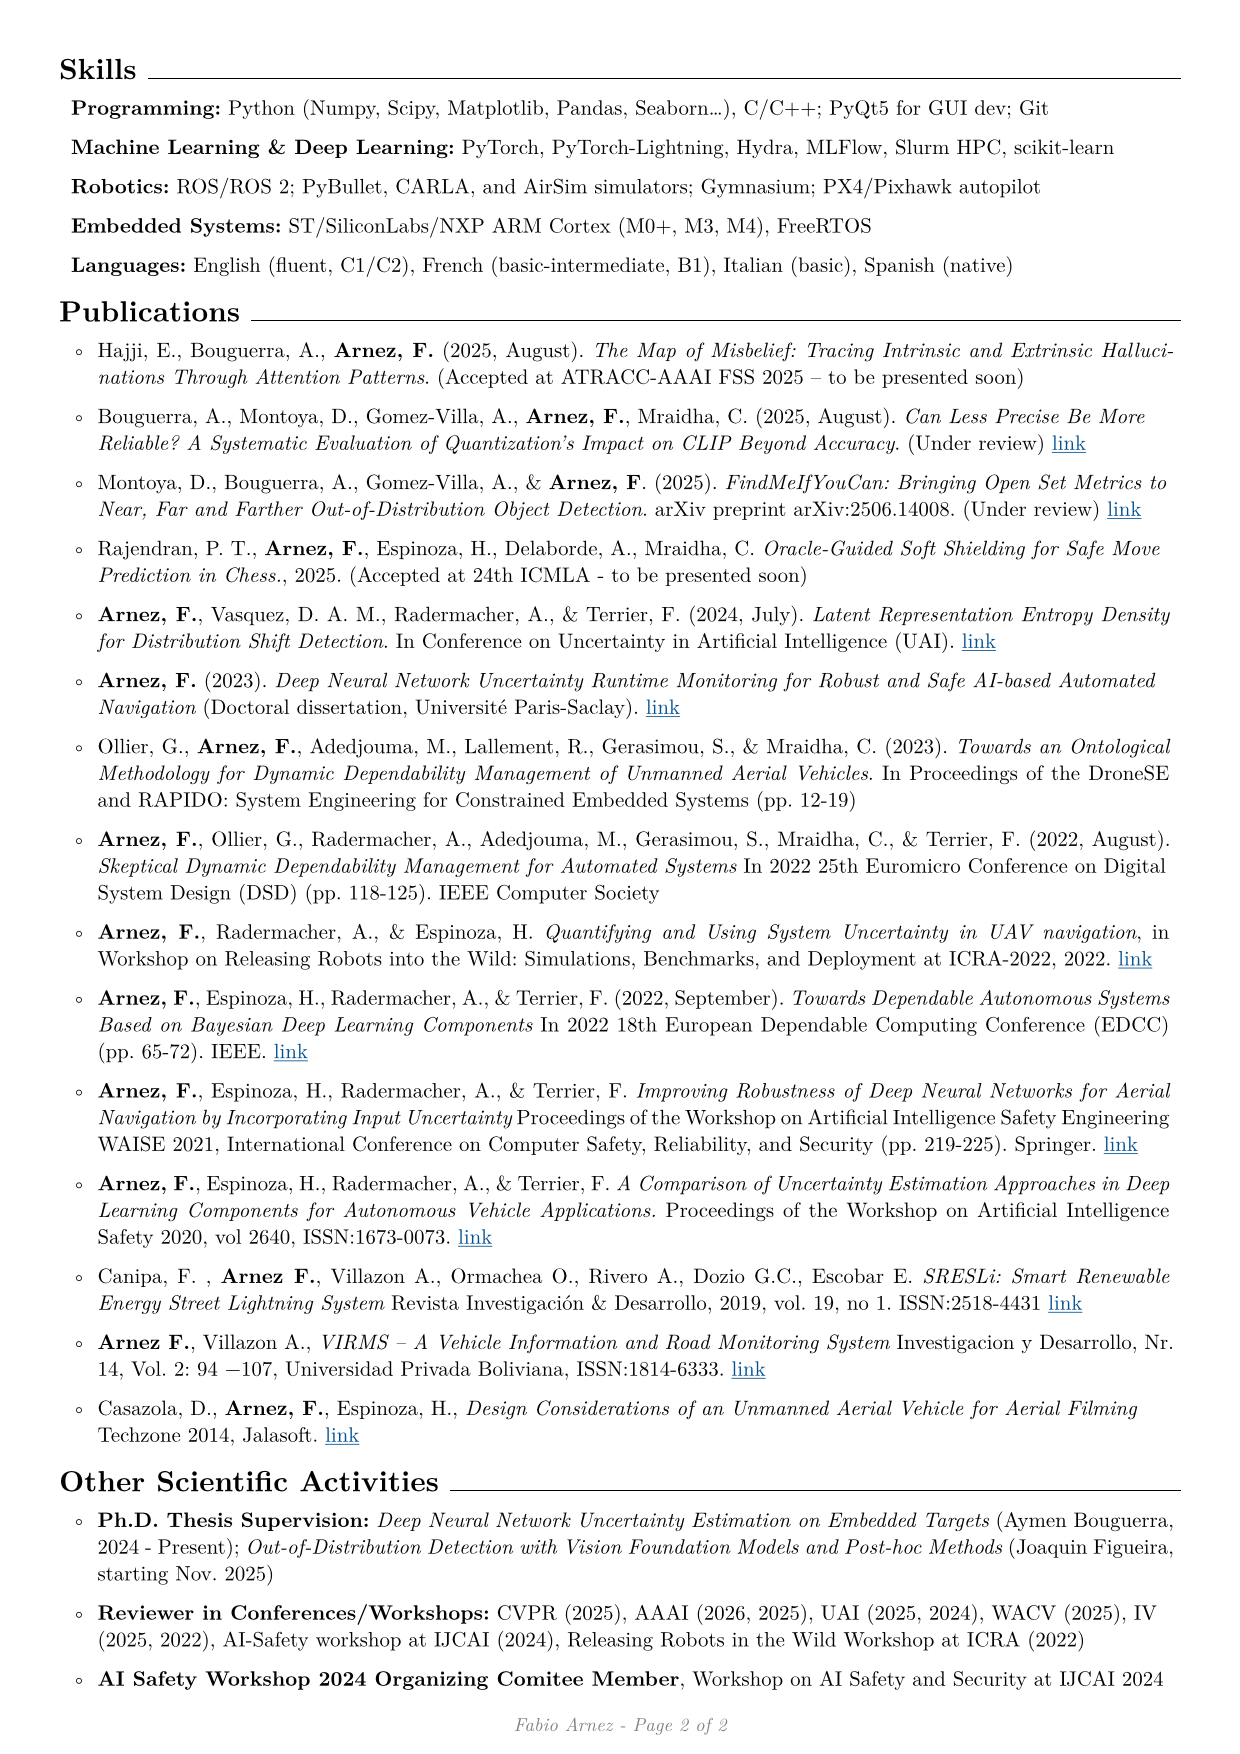
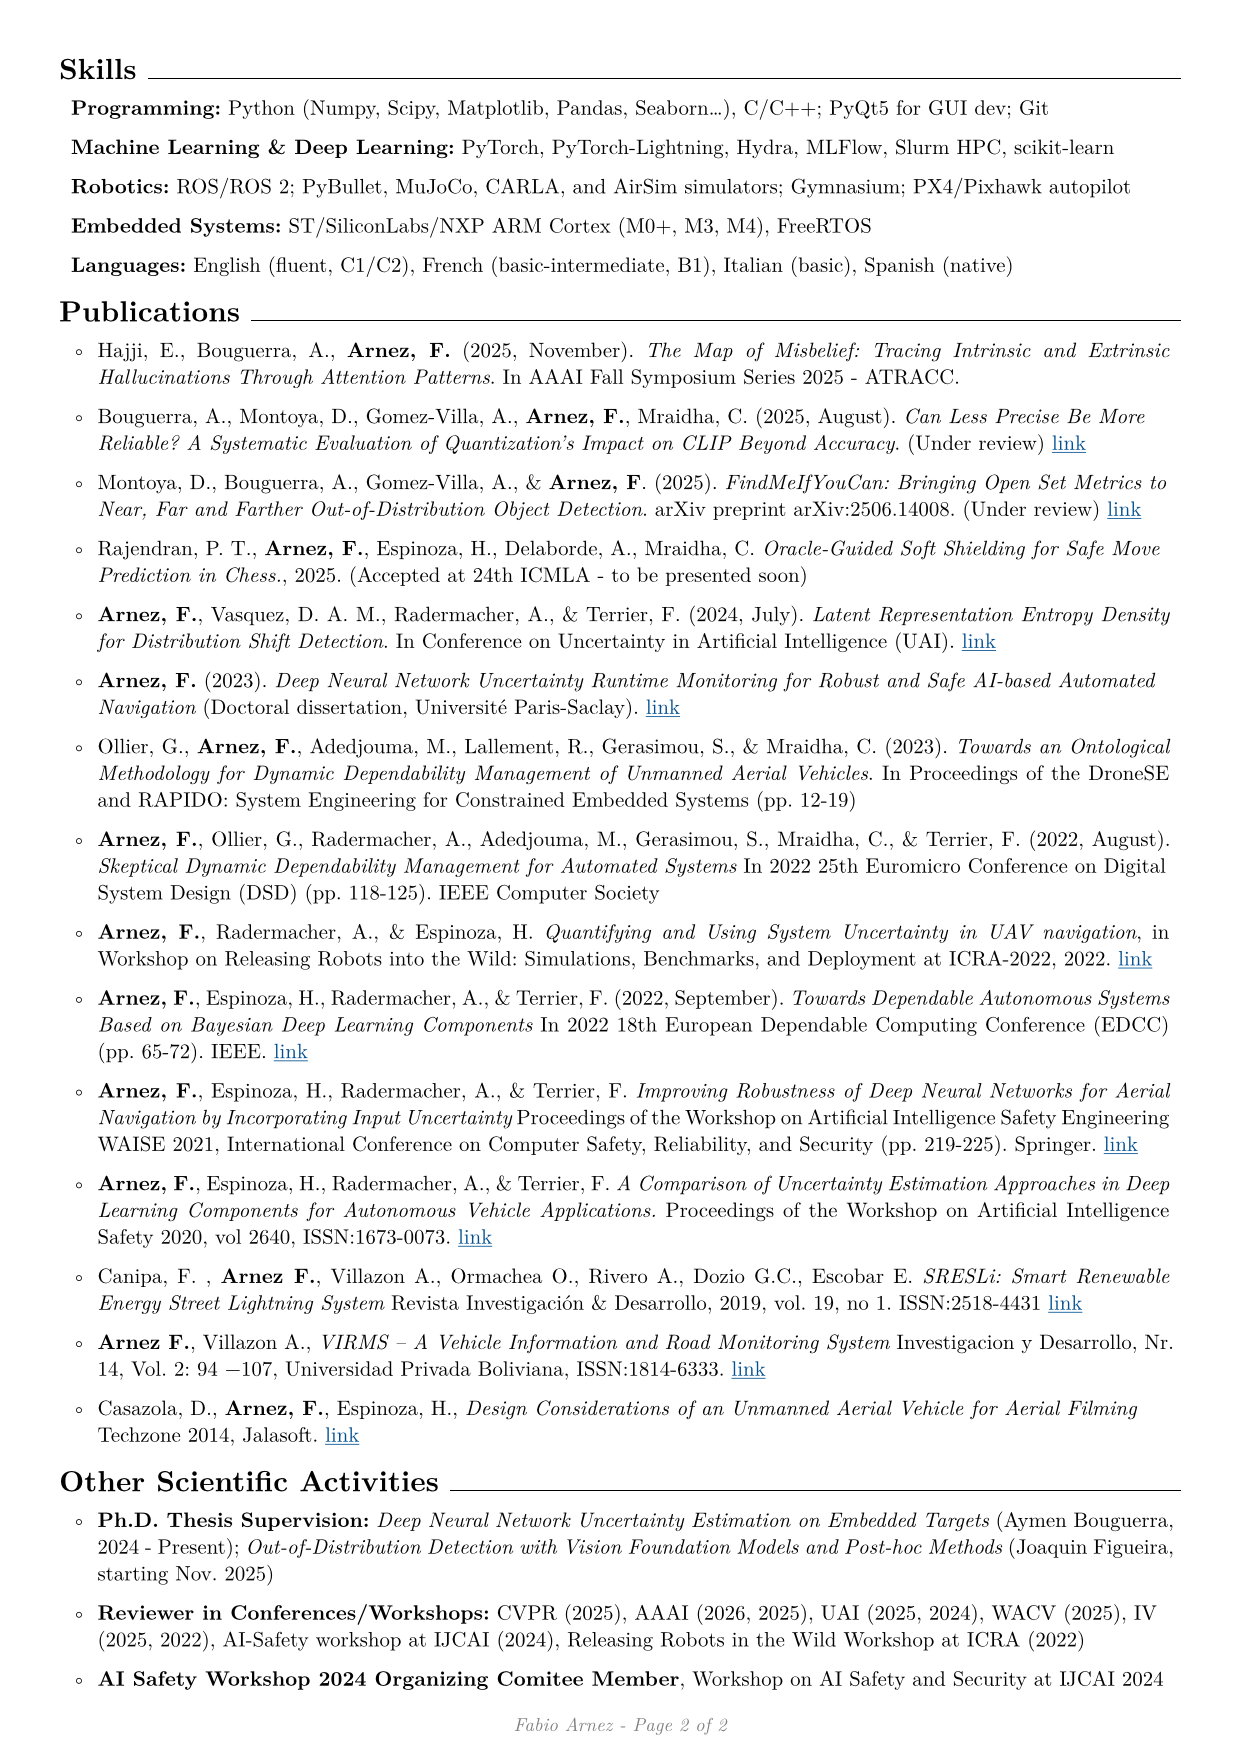
update cv 2025-11-14

Changed region(s): [[0.1226, 0.1847, 0.9194, 0.2155], [0.3065, 0.0924, 0.8274, 0.1231]]

diff --git a/rendercv_output/Fabio_Arnez_CV.html b/rendercv_output/Fabio_Arnez_CV.html
@@ -57,7 +57,7 @@
         <li>Trustworthy Deep Learning Team <strong>leader</strong>, Ph.D. Theses and Interships supervison</li>
         <li>On-going contribution to the <strong>PRIMaL</strong> (Carnot project)</li>
         <li>On-going contribution <a href="https://deepgreen.ai/"><strong>DeepGreen</strong></a> Project for embedded AI, (France 2030 program)</li>
-        <li>Contributed to the <a href="https://www.confiance.ai/"><strong>Confiance.ai</strong></a> program, (France 2030 program). OoD detection method <a href="https://catalog.confiance.ai/records/vtkgc-x6d75">library</a>.</li>
+        <li>Contributed to the <a href="https://www.confiance.ai/"><strong>Confiance.ai</strong></a> program, (France 2030 program). OoD detection method <a href="https://catalog.confiance.ai/records/vtkgc-x6d75">library</a></li>
         <li>Contributed to the <a href="https://cordis.europa.eu/article/id/444650-innovative-framework-for-cohesive-independent-and-reliable-drone-operations"><strong>Comp4Drones</strong></a> project (H2020 Program European Union). WP4-Task4.4 Runtime Monitoring leader and contributor</li>
         </ul>
         <h2>Bamboo, Data Scientist</h2>
@@ -110,13 +110,13 @@
         <ul>
         <li>Programming: Python (Numpy, Scipy, Matplotlib, Pandas, Seaborn...), C/C++; PyQt5 for GUI dev;  Git</li>
         <li>Machine Learning &amp; Deep Learning: PyTorch, PyTorch-Lightning, Hydra, MLFlow, Slurm HPC, scikit-learn</li>
-        <li>Robotics: ROS/ROS 2; PyBullet, CARLA, and AirSim simulators; Gymnasium; PX4/Pixhawk autopilot</li>
+        <li>Robotics: ROS/ROS 2; PyBullet, MuJoCo, CARLA, and AirSim simulators; Gymnasium; PX4/Pixhawk autopilot</li>
         <li>Embedded Systems: ST/SiliconLabs/NXP ARM Cortex (M0+, M3, M4), FreeRTOS</li>
         <li>Languages: English (fluent, C1/C2), French (basic-intermediate, B1), Italian (basic), Spanish (native)</li>
         </ul>
         <h1>Publications</h1>
         <ul>
-        <li>Hajji, E., Bouguerra, A., <strong>Arnez, F.</strong> (2025, August). <em>The Map of Misbelief: Tracing Intrinsic and Extrinsic Hallucinations Through Attention Patterns</em>. (Accepted at ATRACC-AAAI FSS 2025 – to be presented soon)</li>
+        <li>Hajji, E., Bouguerra, A., <strong>Arnez, F.</strong> (2025, November). <em>The Map of Misbelief: Tracing Intrinsic and Extrinsic Hallucinations Through Attention Patterns</em>. In AAAI Fall Symposium Series 2025 - ATRACC.</li>
         <li>Bouguerra, A., Montoya, D., Gomez-Villa, A., <strong>Arnez, F.</strong>, Mraidha, C. (2025, August). <em>Can Less Precise Be More Reliable? A Systematic Evaluation of Quantization’s Impact on CLIP Beyond Accuracy</em>. (Under review) <a href="https://arxiv.org/abs/2509.21173">link</a></li>
         <li>Montoya, D., Bouguerra, A., Gomez-Villa, A., &amp; <strong>Arnez, F</strong>. (2025). <em>FindMeIfYouCan: Bringing Open Set Metrics to Near, Far  and Farther Out-of-Distribution Object Detection</em>. arXiv preprint arXiv:2506.14008. (Under review) <a href="https://arxiv.org/abs/2506.14008">link</a></li>
         <li>Rajendran, P. T., <strong>Arnez, F.</strong>, Espinoza, H., Delaborde, A., Mraidha, C. <em>Oracle-Guided Soft Shielding for Safe Move Prediction in Chess.</em>, 2025. (Accepted at 24th ICMLA - to be presented soon)</li>

diff --git a/rendercv_output/Fabio_Arnez_CV.md b/rendercv_output/Fabio_Arnez_CV.md
@@ -18,7 +18,7 @@
 - Trustworthy Deep Learning Team **leader**, Ph.D. Theses and Interships supervison
 - On-going contribution to the **PRIMaL** (Carnot project)
 - On-going contribution [**DeepGreen**](https://deepgreen.ai/) Project for embedded AI, (France 2030 program)
-- Contributed to the [**Confiance.ai**](https://www.confiance.ai/) program, (France 2030 program). OoD detection method [library](https://catalog.confiance.ai/records/vtkgc-x6d75).
+- Contributed to the [**Confiance.ai**](https://www.confiance.ai/) program, (France 2030 program). OoD detection method [library](https://catalog.confiance.ai/records/vtkgc-x6d75)
 - Contributed to the [**Comp4Drones**](https://cordis.europa.eu/article/id/444650-innovative-framework-for-cohesive-independent-and-reliable-drone-operations) project (H2020 Program European Union). WP4-Task4.4 Runtime Monitoring leader and contributor
 
 ## Bamboo, Data Scientist
@@ -72,12 +72,12 @@
 
 - Programming: Python (Numpy, Scipy, Matplotlib, Pandas, Seaborn...), C/C++; PyQt5 for GUI dev;  Git
 - Machine Learning & Deep Learning: PyTorch, PyTorch-Lightning, Hydra, MLFlow, Slurm HPC, scikit-learn
-- Robotics: ROS/ROS 2; PyBullet, CARLA, and AirSim simulators; Gymnasium; PX4/Pixhawk autopilot
+- Robotics: ROS/ROS 2; PyBullet, MuJoCo, CARLA, and AirSim simulators; Gymnasium; PX4/Pixhawk autopilot
 - Embedded Systems: ST/SiliconLabs/NXP ARM Cortex (M0+, M3, M4), FreeRTOS
 - Languages: English (fluent, C1/C2), French (basic-intermediate, B1), Italian (basic), Spanish (native)
 # Publications
 
-- Hajji, E., Bouguerra, A., **Arnez, F.** (2025, August). *The Map of Misbelief: Tracing Intrinsic and Extrinsic Hallucinations Through Attention Patterns*. (Accepted at ATRACC-AAAI FSS 2025 – to be presented soon)
+- Hajji, E., Bouguerra, A., **Arnez, F.** (2025, November). *The Map of Misbelief: Tracing Intrinsic and Extrinsic Hallucinations Through Attention Patterns*. In AAAI Fall Symposium Series 2025 - ATRACC.
 - Bouguerra, A., Montoya, D., Gomez-Villa, A., **Arnez, F.**, Mraidha, C. (2025, August). *Can Less Precise Be More Reliable? A Systematic Evaluation of Quantization’s Impact on CLIP Beyond Accuracy*. (Under review) [link](https://arxiv.org/abs/2509.21173)
 - Montoya, D., Bouguerra, A., Gomez-Villa, A., & **Arnez, F**. (2025). *FindMeIfYouCan: Bringing Open Set Metrics to Near, Far  and Farther Out-of-Distribution Object Detection*. arXiv preprint arXiv:2506.14008. (Under review) [link](https://arxiv.org/abs/2506.14008)
 - Rajendran, P. T., **Arnez, F.**, Espinoza, H., Delaborde, A., Mraidha, C. *Oracle-Guided Soft Shielding for Safe Move Prediction in Chess.*, 2025. (Accepted at 24th ICMLA - to be presented soon)
